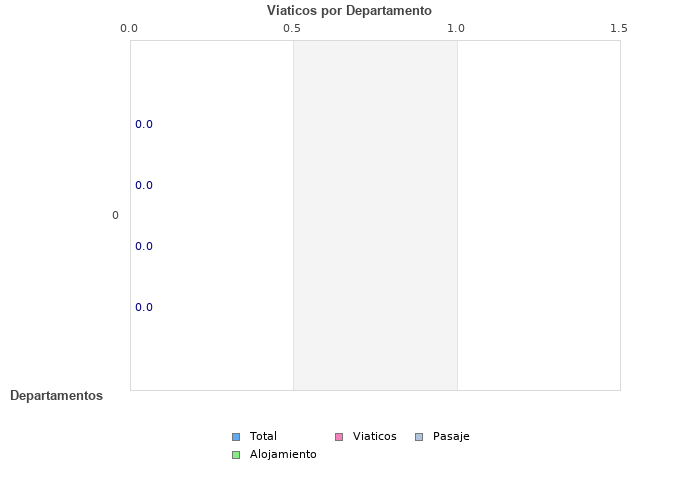
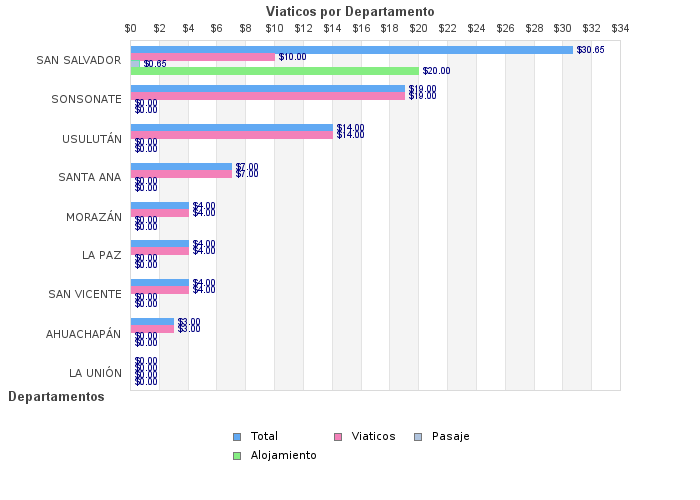
reportes

diff --git a/application/controllers/informes/Menu_reportes.php b/application/controllers/informes/Menu_reportes.php
@@ -184,7 +184,6 @@ class Menu_reportes extends CI_Controller {
 				$data3y[$i]=$viatico_anual_detalle->alojamiento;
 				$data4y[$i]=$viatico_anual_detalle->total;
 				$labels[$i]=$viatico_anual_detalle->departamento;
-
 				$i++;
 			}
 		
@@ -203,17 +202,36 @@ class Menu_reportes extends CI_Controller {
 		$b2plot = new BarPlot($data2y);
 		$b3plot = new BarPlot($data3y);
 		$b4plot = new BarPlot($data4y);
-		
+	
 		// Create the grouped bar plot
 		$gbplot = new GroupBarPlot(array($b4plot,$b1plot,$b2plot,$b3plot));
+		//$gbplot->value->SetFormat('%01.2f');
 
 		// ...and add it to the graPH
 		$graph->Add($gbplot);
 
 		$b1plot->value->Show();
-		//$b1plot->SetColor("#0000CD");
 		$b2plot->SetFillColor('#B0C4DE');
 		$b1plot->SetLegend("Viaticos");
+
+
+		/******************************************************************
+			Inicio cambiando formato de etiquetas a $0.00 dinero
+		******************************************************************/
+
+		$b1plot->value->SetFormat('$%01.2f');
+		$b2plot->value->SetFormat('$%01.2f');
+		$b3plot->value->SetFormat('$%01.2f');
+		$b4plot->value->SetFormat('$%01.2f');
+
+		$b1plot->value->SetFont(FF_ARIAL,FS_NORMAL,7);  // FS_BOLD para negrita
+		$b2plot->value->SetFont(FF_ARIAL,FS_NORMAL,7);  // FS_BOLD para negrita
+		$b3plot->value->SetFont(FF_ARIAL,FS_NORMAL,7);  // FS_BOLD para negrita
+		$b4plot->value->SetFont(FF_ARIAL,FS_NORMAL,7);  // FS_BOLD para negrita
+
+		/******************************************************************
+			Fin cambiando formato de etiquetas a $0.00 dinero
+		******************************************************************/
 
 		$b2plot->value->Show();
 		$b2plot->SetLegend("Pasaje");
@@ -231,6 +249,15 @@ class Menu_reportes extends CI_Controller {
 		$graph->xaxis->SetTickLabels($labels);
 		$graph->xaxis->title->SetFont(FF_ARIAL,FS_BOLD);
 		$graph->yaxis->scale->SetGrace(10);
+
+		/******************************************************************
+			Inicio cambiando formato del eje Y a $0.00 dinero
+		******************************************************************/
+		$graph->yaxis->SetLabelFormat('$%d');
+		$graph->yaxis->SetFont(FF_ARIAL,FS_NORMAL,8);  // FS_BOLD para negrita
+		/******************************************************************
+			Inicio cambiando formato del eje Y a $0.00 dinero
+		******************************************************************/
 
 		
 		

diff --git a/application/models/Reportes_viaticos_model.php b/application/models/Reportes_viaticos_model.php
@@ -16,7 +16,7 @@ SELECT mo.id_mision_oficial FROM vyp_mision_oficial AS mo WHERE mo.nr_empleado=2
 */
     function obtenerViaticoAnualxDepto($data){
       
-        $viaticos = $this->db->query("SELECT ruta.id_departamento_vyp_rutas as id_depto, dep.departamento, SUM(viatico.pasaje) AS pasaje, SUM(viatico.viatico) AS viatico, SUM(viatico.alojamiento) AS alojamiento,(SUM(viatico.pasaje)+SUM(viatico.viatico)+SUM(viatico.alojamiento)) as total FROM vyp_empresa_viatico as viatico INNER JOIN vyp_rutas as ruta ON viatico.id_destino = ruta.id_vyp_rutas JOIN org_departamento AS dep ON ruta.id_departamento_vyp_rutas = dep.id_departamento WHERE year(viatico.fecha) IN ('$data') GROUP BY ruta.id_departamento_vyp_rutas order by total desc");
+        $viaticos = $this->db->query("SELECT ruta.id_departamento_vyp_rutas as id_depto, dep.departamento, SUM(viatico.pasaje) AS pasaje, SUM(viatico.viatico) AS viatico, SUM(viatico.alojamiento) AS alojamiento,(SUM(viatico.pasaje)+SUM(viatico.viatico)+SUM(viatico.alojamiento)) as total FROM vyp_empresa_viatico as viatico INNER JOIN (SELECT CAST(r.id_vyp_rutas AS CHARACTER) AS id_vyp_rutas, r.id_departamento_vyp_rutas, r.id_municipio_vyp_rutas FROM vyp_rutas AS r UNION SELECT CAST(o.id_oficina AS CHARACTER), o.id_departamento, o.id_municipio FROM vyp_oficinas AS o) AS ruta ON viatico.id_destino = ruta.id_vyp_rutas JOIN org_departamento AS dep ON ruta.id_departamento_vyp_rutas = dep.id_departamento WHERE year(viatico.fecha) IN ('$data') GROUP BY ruta.id_departamento_vyp_rutas order by total desc");
         return $viaticos;
     }
     function obtenerViaticoAnual($data)
@@ -51,7 +51,7 @@ SELECT mo.id_mision_oficial FROM vyp_mision_oficial AS mo WHERE mo.nr_empleado=2
     }
     function obtenerListaviaticoPagado($data){
       $this->db->where("nr_empleado",$data['nr']);
-      $this->db->where("estado","9");
+      $this->db->where("estado","8");
       $this->db->where("fecha_solicitud >=",date("Y-m-d",strtotime($data['fmin'])));
       $this->db->where("fecha_solicitud <=",date("Y-m-d",strtotime($data['fmax'])));
       $viaticos = $this->db->get('vyp_mision_oficial');

diff --git a/application/views/viaticos/solicitud_viaticos.php b/application/views/viaticos/solicitud_viaticos.php
@@ -778,14 +778,14 @@
                     limite_inicio.add('days',2);
                 }*/
 
-                $("#fecha_mision_inicio").datepicker("setStartDate", limite_inicio.format("DD-MM-YYYY") );
-
                 primer_fecha_inicio = limite_inicio.format("DD-MM-YYYY");
                 primer_fecha_fin = limite_fin.format("DD-MM-YYYY");
 
                 if(document.getElementById("justificacion").checked == 1){
+                    $("#fecha_mision_inicio").datepicker("setStartDate", "" );
                     $("#fecha_mision_fin").datepicker("setStartDate", "" );
                 }else{
+                    $("#fecha_mision_inicio").datepicker("setStartDate", limite_inicio.format("DD-MM-YYYY") );
                     $("#fecha_mision_fin").datepicker("setStartDate", limite_fin.format("DD-MM-YYYY") );
                 }
 
@@ -1515,17 +1515,16 @@
         $("#horarios").val(horarios);
         $("#pasaje").val(pasaje);
         $("#viatico").val(viatico);
-        $("#id_distancia").val(id_destino);
         $("#alojamiento").val(alojamiento);
 
         $("#band_viatico").val(band);
         $("#btnadd3").hide(0);
         $("#btnedit3").show(0);
 
-        cambiarkilometraje(id_destino)
-
         if(band == "edit"){
             var ruta = "";
+            $("#id_distancia").val(id_destino);
+            cambiarkilometraje(id_destino)
             if(parseFloat(alojamiento) > 0){
                 document.getElementById("band_factura").checked = 1;
                 cambiarFactura();

diff --git a/application/views/viaticos/solicitud_viaticos_ajax/tabla_solicitudes.php b/application/views/viaticos/solicitud_viaticos_ajax/tabla_solicitudes.php
@@ -10,6 +10,7 @@
             <table id="myTable" class="table table-hover product-overview">
                 <thead class="bg-info text-white">
                     <tr>
+                        <th style="display: none;">Fecha</th>
                         <th>Fecha</th>
                         <th>Actividad realizada</th>
                         <th>Estado</th>
@@ -18,10 +19,13 @@
                 </thead>
                 <tbody>
                 <?php 
-                    $mision = $this->db->query("SELECT m.*, a.nombre_vyp_actividades AS nombre_actividad FROM vyp_mision_oficial AS m JOIN vyp_actividades AS a ON m.id_actividad_realizada = a.id_vyp_actividades");
+                    $mision = $this->db->query("SELECT m.*, a.nombre_vyp_actividades AS nombre_actividad FROM vyp_mision_oficial AS m JOIN vyp_actividades AS a ON m.id_actividad_realizada = a.id_vyp_actividades ORDER BY m.fecha_mision_inicio DESC");
                     if($mision->num_rows() > 0){
+                        $contador = 0;
                         foreach ($mision->result() as $fila) {
+                            $contador++;
                           echo "<tr>";
+                            echo "<td style='display: none;'>".$contador."</td>";
                             if($fila->fecha_mision_inicio == $fila->fecha_mision_fin){
                                 echo "<td>".date("d/m/Y",strtotime($fila->fecha_mision_inicio))."</td>";
                             }else{

diff --git a/application/views/templates/mantenimiento.php b/application/views/templates/mantenimiento.php
@@ -40,7 +40,7 @@ circle:hover
         		<h2> Estamos trabajando para reparar esta página lo más pronto posible. Por favor espere hasta que terminemos todas las reparaciones.</h2>
 
                 <div class="row">
-                    <div class="col-lg-12" style="display: none;">
+                    <div class="col-lg-12" style="display: block;">
                         <svg id="svg_chuco" xmlns="http://www.w3.org/2000/svg" width="800" height="400" style="background-image: url('<?php echo base_url(); ?>/assets/images/croquis/Imagen1.png'); background-size: cover; background-repeat: no-repeat;"/>
                         <script type="text/javascript">
                             function makeSVG(tag, attrs) {
